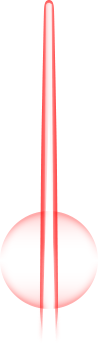
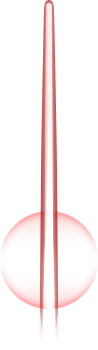
Add turn signal indicators and update gauge assets
- Add left/right turn signal indicators flashing at 1s interval
- Right indicator reuses left_indicator.png mirrored horizontally
- Update background.png and needle.png assets

Changed region(s): [[0.398, 0.0, 0.6122, 0.9143]]

diff --git a/br2-external/package/ultima-app/src/main.qml b/br2-external/package/ultima-app/src/main.qml
@@ -84,6 +84,23 @@ Window {
         pivotY: 74
     }
 
+    // Left turn signal indicator
+    Image {
+        x: 25
+        y: 23
+        source: "qrc:/left_indicator.png"
+        visible: sim.leftIndicator
+    }
+
+    // Right turn signal indicator (mirrored)
+    Image {
+        x: 1600 - 25 - width
+        y: 23
+        source: "qrc:/left_indicator.png"
+        visible: sim.rightIndicator
+        mirror: true
+    }
+
     // Touch feedback dot
     Rectangle {
         id: touchDot

diff --git a/br2-external/package/ultima-app/src/SimEngine.qml b/br2-external/package/ultima-app/src/SimEngine.qml
@@ -13,11 +13,23 @@ Item {
     property string driveMode: "ECO PRO"
     property real fuelLevel: 0.7
     property real coolantTemp: 190
+    property bool leftIndicator: false
+    property bool rightIndicator: false
 
     // Internal state
     property real _targetSpeed: 0
     property real _phaseTimer: 0
     property real _accel: 0
+
+    Timer {
+        interval: 1000
+        running: true
+        repeat: true
+        onTriggered: {
+            engine.leftIndicator = !engine.leftIndicator
+            engine.rightIndicator = !engine.rightIndicator
+        }
+    }
 
     Timer {
         interval: 60